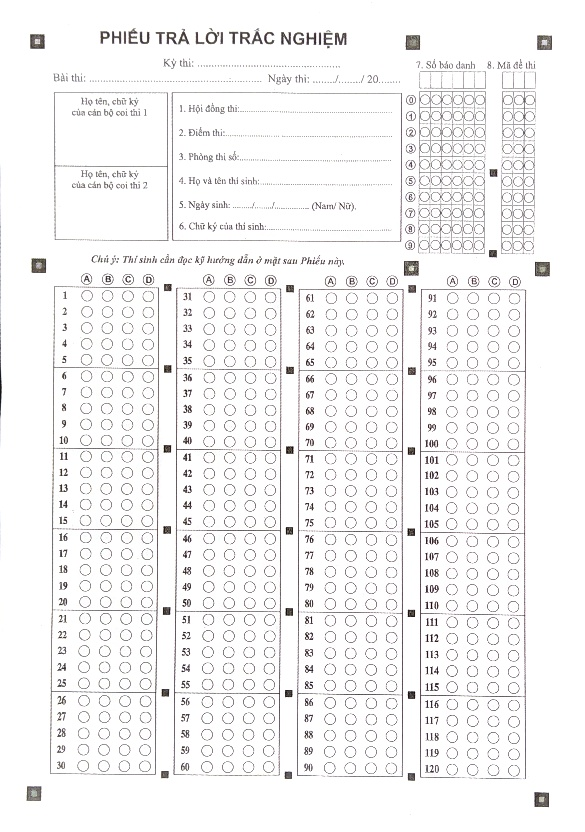
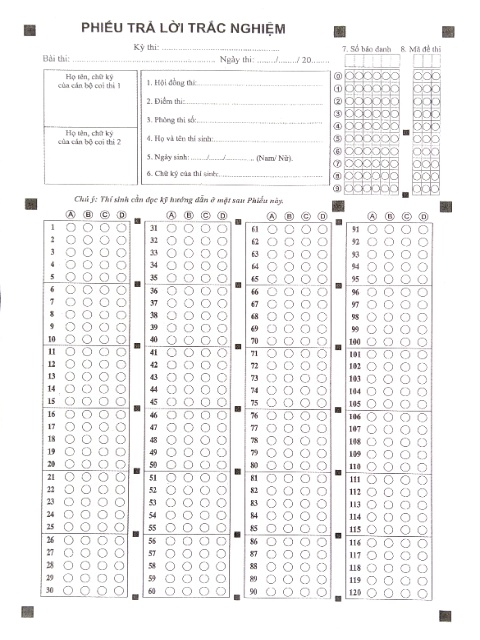
upgrade remove shadow (prototype)

diff --git a/document_scanner.py b/document_scanner.py
@@ -2,15 +2,15 @@ import cv2
 import numpy as np
 import utils
 
-IMG_WIDTH = 595
-IMG_HEIGHT = 842
+IMG_WIDTH = 1240
+IMG_HEIGHT = 1754
 
 CANNY_SIGMA = 0.33
 
 DILATE_KERNEL = np.ones((3, 3))
 ERODE_KERNEL = np.ones((3, 3))
 
-GAUSSIAN_BLUR_KERNEL_SIZE = (1, 1)
+GAUSSIAN_BLUR_KERNEL_SIZE = (3, 3)
 GAUSSIAN_BLUR_BORDER_TYPE = cv2.BORDER_DEFAULT
 
 CONTOUR_MODE = cv2.RETR_EXTERNAL
@@ -47,22 +47,22 @@ class DocumentScanner:
         # imgResized = cv2.resize(img, (img_width, img_height))
         imgProcessed = self.__process_img(img)
         biggest_contour_approx = self.__find_biggest_contour(imgProcessed)
-        imgWarped = self.__warp_image(img, biggest_contour_approx)
-        imgWarped = utils.remove_shadow(imgWarped)
+        imgShadow = utils.remove_shadow(img)
+        imgWarped = self.__warp_image(imgShadow, biggest_contour_approx)
         return imgWarped
 
     def __process_img(self, img):
         imgGray = cv2.cvtColor(img, cv2.COLOR_BGR2GRAY)  # convert to gray scale
         imgBlur = cv2.GaussianBlur(imgGray, self.__gaussian_blur_kernel_size, self.__gaussian_blur_border_type, 0)
         imgEdged = utils.auto_canny(imgBlur, self.__canny_sigma)
-        imgDilated = cv2.dilate(imgEdged, kernel=self.__dilate_kernel, iterations=2)
+        imgDilated = cv2.dilate(imgEdged, kernel=self.__dilate_kernel, iterations=1)
         imgEroded = cv2.erode(imgDilated, kernel=self.__erode_kernel, iterations=1)
         return imgEroded
 
     def __find_biggest_contour(self, img):
         try:
             contours, hierarchy = cv2.findContours(img, self.__contour_mode, self.__contour_method)
-            biggestContourApprox, maxArea = utils.find_biggest_contour_approx(contours, self. __min_contour_area)
+            biggestContourApprox, maxArea = utils.find_biggest_contour_approx(contours, self.__min_contour_area)
             biggestContourApprox = utils.reorder_contour_approx(biggestContourApprox)
             return biggestContourApprox
         except ValueError as value_error:
@@ -76,5 +76,5 @@ class DocumentScanner:
         imgWarped = cv2.warpPerspective(img, transform_matrix, (self.__img_width, self.__img_height))
         # correction
         imgWarped = imgWarped[self.__num_shrinking_pixel:imgWarped.shape[0] - self.__num_shrinking_pixel,
-                              self.__num_shrinking_pixel:imgWarped.shape[1] - self.__num_shrinking_pixel]
+                    self.__num_shrinking_pixel:imgWarped.shape[1] - self.__num_shrinking_pixel]
         return imgWarped

diff --git a/utils.py b/utils.py
@@ -45,9 +45,10 @@ def reorder_contour_approx(contour):
 
 def remove_shadow(img):
     dilated_img = cv2.dilate(img, np.ones((5, 5), np.uint8))
-    bg_img = cv2.medianBlur(dilated_img, 15)
+    bg_img = cv2.medianBlur(dilated_img, 83)
     diff_img = 255 - cv2.absdiff(img, bg_img)
     norm_img = cv2.normalize(diff_img, None, alpha=0, beta=255, norm_type=cv2.NORM_MINMAX, dtype=cv2.CV_8UC1)
     _, thr_img = cv2.threshold(norm_img, 230, 0, cv2.THRESH_TRUNC)
     cv2.normalize(thr_img, thr_img, alpha=0, beta=255, norm_type=cv2.NORM_MINMAX, dtype=cv2.CV_8UC1)
+    _, thr_img = cv2.threshold(thr_img, 230, 255, cv2.THRESH_BINARY)
     return thr_img

diff --git a/main.py b/main.py
@@ -8,13 +8,14 @@ document_scanner = DocumentScanner()
 sample_folder = "sample"
 result_folder = "result"
 
-file_name = "sample6.jpg"
+file_name = "sample7.jpg"
 sample_img_path = os.path.join(sample_folder, file_name)
 original_img = cv2.imread(sample_img_path)
 img = document_scanner.scan_document(original_img)
 
 
-cv2.imshow("res", img)
+imgShow = cv2.resize(img, (480, 640))
+cv2.imshow("res", imgShow)
 cv2.waitKey(0)
 
 result_img_path = os.path.join(result_folder, file_name)
